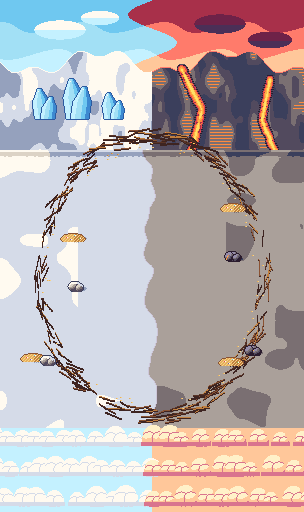
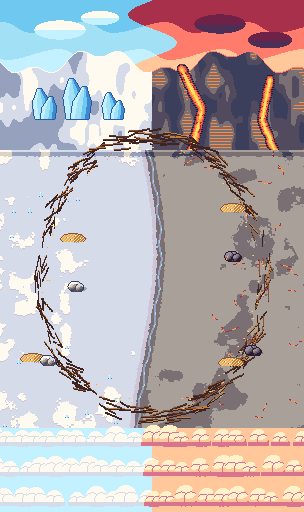
[C] v2.7 polish: avalanche pass packed snow with tracks, muted ice cave floor, deliberate snow-to-fire dragon nest, sunset Avalon hill with stone circle and blossom
Claude-Session: https://claude.ai/code/session_011zCFYQCUMyXvVY6m2szGHz

diff --git a/tools/pixel/art_v27_snow.py b/tools/pixel/art_v27_snow.py
@@ -239,28 +239,49 @@ def scene_ice_cave() -> Scene26:
     for (x, y) in ((40, 120), (250, 100), (96, 136), (214, 130)):
         K7.glow_crack(img, x, y, 10, x + y)
         sc.light("lantern", x + 2, y + 2, 0.45, tint=(1.0, 0.6, 0.3))
-    # floor: cracked ice plates, frost drifts round the edge
-    K7.voronoi_stones(img, (0, 150, IMG_W, IMG_H), 27, ("azure", "azure"), "sky_l", 5204, squash=0.75)
+    # floor: thick old ice in a cool mid grey-blue (not bright: actors and red telegraphs read first), broken
+    # frost-white cracks, pale reflections, hoar-frost creeping in from the walls, darker plates towards the
+    # walls for depth; the middle stays calm
+    K7.voronoi_stones(img, (0, 150, IMG_W, IMG_H), 26, ("steel", "steel"), "steel_l", 5204, squash=0.75)
+    for y in range(150, IMG_H):
+        for x in range(IMG_W):
+            if name_at(img, x, y) == "steel_l" and fbm(x, y, 5208, 9, 2) < 0.6 + W.calm_k(x, y, 60) * 0.1:
+                img.set(x, y, "steel")
+            d = max(AX0 - 4 - x, x - (AX1 + 3), 0)
+            if d > 0 and name_at(img, x, y) == "steel" and d + 5 * AW._cluster(x, y, 5209) > 8:
+                img.set(x, y, "steel_d")
+    # two soft diagonal sheens where the light from the waterfall slides over polished ice
+    for y in range(156, IMG_H):
+        for x in range(IMG_W):
+            if name_at(img, x, y) != "steel":
+                continue
+            u = (x + y * 0.8) % 150
+            band = min(abs(u - 30), abs(u - 52) + 4)
+            if band + (fbm(x, y, 5210, 10, 2) - 0.5) * 10 + AW._cluster(x, y, 5210) * 2 < 4:
+                img.set(x, y, "steel_l")
     for (x, y) in ((AX0 + 8, AY0 + 70), (AX1 - 14, AY0 + 150), (AX0 + 14, AY1 - 30), (AX1 - 20, AY0 + 20)):
         K7.glow_crack(img, x, y, 9, x * 7 + y)
         sc.light("lantern", x + 2, y + 1, 0.4, tint=(1.0, 0.6, 0.3))
     rng = random.Random(5205)
-    for _ in range(46):
+    for _ in range(60):
         x, y = rng.randrange(0, IMG_W - 12), rng.randrange(156, IMG_H)
-        if rng.random() < W.calm_k(x, y) * 0.9:
+        if rng.random() < W.calm_k(x, y, 40) * 0.95:
             continue
-        ln = rng.randrange(4, 10)
+        ln = rng.randrange(4, 9)
         for k in range(ln):
-            if name_at(img, x + k, y - k // 2) == "azure":
-                img.set(x + k, y - k // 2, "sky_l" if k < ln - 2 else "white")
+            if name_at(img, x + k, y - k // 2) in ("steel", "steel_d"):
+                img.set(x + k, y - k // 2, "steel_l" if k < ln - 1 else "azure")
     for y in range(150, IMG_H):
         for x in range(IMG_W):
-            k2 = W.calm_k(x, y, 34)
-            n = fbm(x, y, 5206, 18, 3) + AW._cluster(x, y, 5206) * 0.06
-            if n > 0.58 + k2 * 0.35:
-                img.set(x, y, "white" if n > 0.66 + k2 * 0.35 else "steel_l")
-    K.edge_shadow(img, 150, 6, 0, IMG_W)
-    K.calm_vignette(img, 10)
+            k2 = W.calm_k(x, y, 40)
+            n = fbm(x * 0.8, y, 5206, 16, 3) + AW._cluster(x, y, 5206) * 0.06
+            if n > 0.6 + k2 * 0.4:
+                img.set(x, y, "white" if n > 0.68 + k2 * 0.4 else "steel_l")
+    for x in range(IMG_W):
+        h = 3 + int(3 * fbm(x, 0, 5207, 6, 2) + 2 * AW._cluster(x, 150, 5207))
+        for y in range(150, 150 + h):
+            img.set(x, y, "white" if y < 150 + h - 1 else "steel_l")
+    K.edge_shadow(img, 156, 6, 0, IMG_W)
     # ice crystals and blocks round the edges, a frozen chest, a stuck snowball pile
     for (x, y, h) in ((AX0 - 30, AY0 + 30, 26), (AX1 + 4, AY0 + 10, 30), (AX0 - 26, AY1 - 50, 22), (AX1 + 6, AY1 - 40, 28),
                       (AX0 + 2, AY0 - 6, 14), (AX1 - 16, AY1 - 8, 16)):
@@ -299,7 +320,7 @@ def scene_ice_cave() -> Scene26:
                 spread=180, speed=(1, 3), gravity=(0, 0), blink=True)
     sc.particle(kind="snow", amount=10, lifetime=6.0, rect=(-10, -40, 200, 380), velocity=(0.2, 1), spread=40,
                 speed=(2, 5), gravity=(0, 0), colour_fade=True)
-    sc.modulate = (0.88, 0.93, 1.0)
+    sc.modulate = (0.92, 0.95, 1.0)
     return sc
 
 
@@ -438,17 +459,17 @@ def scene_avalanche_pass() -> Scene26:
     K.peaks_layer(img, 80, [(MIDX - 30, 40, 40), (MIDX + 26, 34, 36)], "steel_l", "fog", rim="white", seed=5402)
     # cliffs converging on the pass: heaps of dark boulders with snow on their tops, narrowing upwards
     def cliff_l(y: float) -> float:
-        return 70 + max(0.0, 170 - y) * 0.42 + 3 * math.sin(y / 9.0)
+        return 70 + max(0.0, 170 - y) * 0.42 - max(0.0, y - 262) * 0.9 + 3 * math.sin(y / 9.0)
 
     def cliff_r(y: float) -> float:
-        return 234 - max(0.0, 170 - y) * 0.42 + 3 * math.sin(y / 11.0 + 2)
+        return 234 - max(0.0, 170 - y) * 0.42 + max(0.0, y - 268) * 0.9 + 3 * math.sin(y / 11.0 + 2)
 
-    for y in range(40, 300):
+    for y in range(40, 370):
         for x in range(IMG_W):
             if x < cliff_l(y) or x > cliff_r(y):
                 img.set(x, y, "iron" if (x < cliff_l(y) - 10 or x > cliff_r(y) + 10) else "slate")
     rng0 = random.Random(5403)
-    for y in range(40, 300, 9):
+    for y in range(40, 370, 9):
         for side in (0, 1):
             edge = cliff_l(y) if side == 0 else cliff_r(y)
             x = edge - rng0.randrange(14, 24) if side == 0 else edge - rng0.randrange(0, 8)
@@ -481,21 +502,57 @@ def scene_avalanche_pass() -> Scene26:
             img.set(x, y, "white" if y < bottom - 5 else ("steel_l" if y < bottom - 2 else "steel"))
         img.set(x, int(top), "steel_l")
     K7.icicles(img, 50, 260, 96, 5404, ("steel_l", "white", "white"), 7)
-    # the path: packed snow, wind-swept, calm in the middle
-    snow_ground(img, (0, 96, IMG_W, IMG_H), 5405, ("ash", "fog", "steel_l"),
-                mask=lambda x, y: y >= 300 or cliff_l(y) <= x <= cliff_r(y))
-    for x in range(IMG_W):
-        for y in range(96, 150):
-            if cliff_l(y) <= x <= cliff_r(y) and name_at(img, x, y) == "fog" and fbm(x, y, 5407, 14, 2) > 0.38 + (y - 96) / 140:
-                img.set(x, y, "steel_l")
-    rng = random.Random(5406)
-    for _ in range(80):
-        x, y = rng.randrange(0, IMG_W - 14), rng.randrange(150, IMG_H)
-        if rng.random() < W.calm_k(x, y) * 0.95 or name_at(img, x, y) not in ("fog", "steel_l"):
+    # the path: packed snow (one cool tone), a blue shade along the cliff feet, wind drifts with a lit crest and
+    # a soft shadow under them near the edges, sledge runners and paw prints; the middle stays calm
+    def on_path(x: int, y: int) -> bool:
+        return y >= 370 or cliff_l(y) <= x <= cliff_r(y)
+
+    for y in range(96, IMG_H):
+        for x in range(IMG_W):
+            if not on_path(x, y):
+                continue
+            col = "steel_l"
+            edge = min(x - cliff_l(y), cliff_r(y) - x) if y < 370 else 99
+            if edge < 7 + 3 * AW._cluster(x, y, 5405):
+                col = "fog" if edge > 3 else "steel"
+            img.set(x, y, col)
+    for y in range(96, IMG_H):
+        for x in range(IMG_W):
+            if name_at(img, x, y) != "steel_l":
+                continue
+            k = W.calm_k(x, y, 46)
+            n = fbm(x * 0.7, y * 1.6, 5406, 22, 3) + AW._cluster(x, y, 5406) * 0.05
+            if n > 0.6 + k * 0.4:
+                img.set(x, y, "white")
+    for y in range(IMG_H - 1, 96, -1):
+        for x in range(IMG_W):
+            if name_at(img, x, y) == "white" and name_at(img, x, y + 1) == "steel_l" and name_at(img, x, y + 2) == "steel_l":
+                img.set(x, y + 1, "fog")
+    rng = random.Random(5407)
+    for _ in range(90):
+        x, y = rng.randrange(0, IMG_W - 8), rng.randrange(110, IMG_H)
+        if rng.random() < W.calm_k(x, y, 40) * 0.97 or name_at(img, x, y) != "steel_l":
             continue
-        for k in range(rng.randrange(6, 14)):
-            if name_at(img, x + k, y) in ("fog", "steel_l"):
-                img.set(x + k, y, "steel_l" if name_at(img, x + k, y) == "fog" else "white")
+        ln = rng.randrange(3, 7)
+        for k in range(ln):
+            if name_at(img, x + k, y) == "steel_l":
+                img.set(x + k, y, "white")
+            if name_at(img, x + k, y + 1) == "steel_l" and 0 < k < ln - 1:
+                img.set(x + k, y + 1, "fog")
+    # a sledge's two runners curving down the pass, broken where the wind has filled them in
+    for y in range(104, IMG_H):
+        cx = 104 + 9 * math.sin(y / 46.0) + y * 0.02
+        for dx in (0, 6):
+            x = int(cx + dx)
+            if on_path(x, y) and (y // 5) % 7 != 3 and name_at(img, x, y) in ("steel_l", "white"):
+                img.set(x, y, "fog")
+    # paw prints wandering beside the runners (somebody walked the sledge up)
+    for k in range(34):
+        y = 112 + k * 9
+        x = int(206 - 10 * math.sin(y / 40.0)) + (3 if k % 2 else -3)
+        for (dx, dy) in ((0, 0), (1, 0), (0, 1), (1, 1), (-1, -1), (2, -1)):
+            if name_at(img, x + dx, y + dy) in ("steel_l", "white"):
+                img.set(x + dx, y + dy, "fog")
     # boulders from the last avalanche, snow piles against the cliffs
     for (x, y, w, h) in ((AX0 - 26, AY0 + 30, 26, 16), (AX1 + 2, AY0 + 80, 24, 14), (AX0 - 20, AY1 - 50, 22, 14),
                          (AX1 - 2, AY1 - 20, 26, 15), (AX0 + 2, AY0 + 2, 16, 10), (AX1 - 20, AY0 - 2, 14, 9)):
@@ -681,26 +738,59 @@ def scene_dragon_nest() -> Scene26:
     K7.lava_river(img, [(MIDX + 30, 70), (MIDX + 50, 110), (MIDX + 40, 150)], 8, 5604)
     K7.lava_river(img, [(270, 80), (262, 120), (275, 152)], 7, 5605)
     sc.anim("lava_flow", MIDX + 34, 110, 0, 1.0)
-    # the nest: summit rock floor (snowy left, warm rock right) inside a ring of huge twigs
-    def side_mix(x: int, y: int) -> float:
-        return (x - MIDX) / 18.0 + (fbm(x, y, 5606, 30, 2) - 0.5) * 2.4
+    # the nest: the summit floor turns from the white dragon's snow (left) through slush and wet, steaming rock
+    # with a meltwater rivulet (a gentle S down the middle) into the red dragon's warm stone, lit by embers
+    # (right); both halves stay calm, the detail lives at the edges
+    def seam(y: float) -> float:
+        return MIDX + 12 * math.sin((y - 150) / 64.0) - 4
 
     for y in range(150, IMG_H):
+        sx = seam(y)
         for x in range(IMG_W):
-            s = side_mix(x, y)
-            if s < 0:
+            d = x + 0.5 - sx + AW._cluster(x, y, 5606) * 1.2
+            if d < -7:
                 col = "steel_l"
-                if fbm(x, y, 5607, 40, 2) > 0.62 and W.calm_k(x, y) < 0.6:
-                    col = "white"
+            elif d < -3:
+                col = "fog"
+            elif d < 5:
+                col = "stone_d"
             else:
                 col = "stone"
-                if fbm(x, y, 5608, 40, 2) > 0.62 and W.calm_k(x, y) < 0.6:
-                    col = "stone_d"
             img.set(x, y, col)
+        for k in (-1, 0):
+            xx = int(sx + 1 + 1.2 * math.sin(y / 5.0)) + k
+            img.set(xx, y, "steel" if k else ("azure" if (y // 3) % 4 == 0 else "steel"))
     for y in range(150, IMG_H):
         for x in range(IMG_W):
-            if side_mix(x, y) < 0 <= side_mix(x + 1, y):
-                img.set(x, y, "fog")
+            k = W.calm_k(x, y, 44)
+            n = fbm(x, y, 5607, 22, 3) + AW._cluster(x, y, 5607) * 0.06
+            here = name_at(img, x, y)
+            if here == "steel_l" and n > 0.6 + k * 0.4:
+                img.set(x, y, "white")
+            elif here == "stone" and n > 0.6 + k * 0.4:
+                img.set(x, y, "stone_d")
+    for y in range(IMG_H - 1, 150, -1):
+        for x in range(IMG_W):
+            if name_at(img, x, y) == "white" and name_at(img, x, y + 1) == "steel_l":
+                img.set(x, y + 1, "fog")
+    rng = random.Random(5611)
+    for k in range(40):
+        x, y = rng.randrange(MIDX + 40, IMG_W), rng.randrange(156, IMG_H)
+        if W.calm_k(x, y, 40) > 0.55:
+            continue
+        K7.glow_crack(img, x, y, rng.randrange(8, 16), 5612 + k)
+    for k in range(26):
+        x, y = rng.randrange(0, MIDX - 30), rng.randrange(156, IMG_H)
+        if W.calm_k(x, y, 40) > 0.35:
+            continue
+        W.shard(img, x, y, ("water", "azure", "sky_l"), 3 + k % 3)
+    for (y, f) in ((AY0 - 12, 0), (AY1 - 26, 3)):
+        sc.anim("steam", int(seam(y + 20)) - 6, y, f, 0.6)
+    for (y, f) in ((AY0 + 40, 0), (AY0 + 130, 2), (AY1 - 40, 4)):
+        sc.anim("water_glint", int(seam(y)) - 2, y, f, 0.7)
+    for y in (AY0 + 30, AY0 + 120, AY1 - 30):
+        sc.light("torch", AX1 + 4, y, 0.55)
+        sc.light("magic", AX0 - 4, y, 0.4, tint=(0.5, 0.9, 1.0))
     # nest ring: woven branches round an ellipse
     ccx, ccy, rx, ry = MIDX, MIDY + 4, 106, 132
     rng = random.Random(5609)

diff --git a/tools/pixel/art_v27_dusk.py b/tools/pixel/art_v27_dusk.py
@@ -608,23 +608,43 @@ def scene_avalon_hill() -> Scene26:
             continue
         for y in range(y0, y0 + 4):
             img.set(x, y, "peach" if y == y0 else ("stone_l" if y < y0 + 3 else "stone"))
-    # the hilltop: warm green grass, calm; a ring of white flowers round it
-    W.textured_floor(img, (0, 148, IMG_W, IMG_H), ("leaf_d", "leaf", "spring"), 6605, scale=46,
+    # the hilltop: sunset-warm grass (golden green, warm-lit patches, golden light spilling down from the lake
+    # side), a faint circle of flat old stones, fallen apple blossom drifting in from the edges; calm centre
+    W.textured_floor(img, (0, 148, IMG_W, IMG_H), ("leaf", "spring", "leaf_l"), 6605, scale=48,
                      mask=lambda x, y: y > shore(x) + 3 and not (abs(x - MIDX) < 10 and y < 158))
+    for y in range(150, 246):
+        for x in range(IMG_W):
+            if name_at(img, x, y) != "spring":
+                continue
+            v = (y - 150) / 96 + (fbm(x, y, 6608, 20, 2) - 0.5) * 0.5 + AW._cluster(x, y, 6608) * 0.06
+            if v < 0.34:
+                img.set(x, y, "leaf_l")
     W.blades(img, (0, 150, IMG_W, IMG_H), 6606, 0.045, mask=lambda x, y: y > shore(x) + 4)
+    K.edge_shadow(img, 152, 3, 0, IMG_W)
+    for k in range(38):
+        a = k / 38 * 2 * math.pi
+        cx, cy = MIDX + math.cos(a) * 86, MIDY + 6 + math.sin(a) * 110
+        st = Canvas(8, 5)
+        for (px, py) in P.ellipse(4, 2.3, 3.6, 2.0):
+            st.set(px, py, "stone_l" if py < 2 else ("stone" if px < 5 else "stone_d"))
+        st.set(2, 1, "white")
+        AW.place(img, st, int(cx) - 4, int(cy) - 2, shadow=(0.9, -1), shadow_dx=1)
+
+    def petal(r: random.Random) -> Canvas:
+        c = Canvas(3, 2)
+        col = r.choice(("pink", "pink", "white", "peach"))
+        c.set(0, 0, col)
+        c.set(1, 0, "white" if col != "white" else "pink")
+        c.set(1, 1, col)
+        if r.random() < 0.5:
+            c.set(2, 1, col)
+        return c
+    K7.scatter_props(img, (0, 156, IMG_W, IMG_H), 700, 6607, petal, calm=0.95)
     for (cx, cy) in ((AX0 + 10, AY0 + 30), (AX1 - 12, AY0 + 30), (AX0 + 10, AY1 - 6), (AX1 - 12, AY1 - 6),
                      (AX0 - 20, MIDY), (AX1 + 16, MIDY)):
-        AW.sprinkle_flowers(img, (cx - 10, cy - 6, cx + 10, cy + 6), 9, cx * 3 + cy, ["white", "pink", "white"])
-    K7.leaf_litter(img, (0, 156, IMG_W, IMG_H), 220, 6607, cols=("pink", "white", "peach", "pink"), calm=0.98)
-    K.edge_shadow(img, 152, 3, 0, IMG_W)
-    # the hilltop's faint old circle, and drifts of fallen blossom near its rim
-    W.rune_ring(img, MIDX, MIDY + 6, 84, "spring", "leaf_l", ticks=16, width=1.0)
-    for k in range(10):
-        a = k / 10 * 2 * math.pi + 0.3
-        cx, cy = MIDX + math.cos(a) * 96, MIDY + 6 + math.sin(a) * 124
-        K7.soft_disc(img, cx, cy, 9, 4, "spring", seed=6650 + k, only=("leaf",))
-        AW.sprinkle_flowers(img, (int(cx) - 8, int(cy) - 4, int(cx) + 8, int(cy) + 4), 3, 6660 + k,
-                            ["white", "pink"])
+        K7.soft_disc(img, cx, cy, 11, 5, "leaf_l", seed=cx + cy, only=("leaf", "spring"))
+        K7.scatter_props(img, (cx - 12, cy - 6, cx + 12, cy + 6), 14, cx * 3 + cy, petal, calm=0.0)
+        AW.sprinkle_flowers(img, (cx - 10, cy - 6, cx + 10, cy + 6), 5, cx * 5 + cy, ["white", "pink", "white"])
     # old standing stones at four points of the ring
     for (x, y, h) in ((AX0 + 2, AY0 + 6, 18), (AX1 - 14, AY0 + 6, 20), (AX0 + 2, AY1 - 28, 18), (AX1 - 14, AY1 - 28, 20)):
         AW.place(img, K.menhir(h, x, ("stone_d", "stone", "stone_l"), "iron", rune="gold_l"), x, y,
@@ -637,7 +657,8 @@ def scene_avalon_hill() -> Scene26:
             k = (yy - (y + t.h - 6)) / 76
             half = t.w * 0.32 * (1 - k * 0.5)
             for xx in range(int(cx - half + k * 10), int(cx + half + k * 10)):
-                if AW._cluster(xx, yy, 6640) * 0.8 + k < 0.95 and name_at(img, xx, yy) in ("leaf", "spring", "leaf_l"):
+                if AW._cluster(xx, yy, 6640) * 0.8 + k < 0.95 and name_at(img, xx, yy) in ("leaf", "spring", "leaf_l",
+                                                                                         "moss"):
                     AW.shade(img, xx, yy, -1)
         AW.place(img, t, x, y, shadow=(1.0, -2), shadow_dx=6)
     for (x, y) in ((AX0 - 34, 214), (AX1 - 4, 250)):
@@ -666,13 +687,15 @@ def scene_avalon_hill() -> Scene26:
                                    (AX0 - 6, AY1 - 50, "flower_pink"), (AX1 + 4, AY1 - 20, "flower_white"))):
         sc.anim(k, x, y, i % 4, 0.9)
     sc.light("sun", MIDX, hz - 4, 1.5, tint=(1.0, 0.75, 0.5))
+    for (x, y) in ((AX0 + 20, AY0 + 40), (AX1 - 20, AY0 + 60)):
+        sc.light("sun", x, y, 0.8, tint=(1.0, 0.7, 0.45))
     sc.particle(kind="blossom", amount=20, lifetime=6.0, rect=(-20, -60, 220, 300), velocity=(1, 0.5), spread=25,
                 speed=(8, 14), gravity=(0, 2), colour_fade=True, spin=True)
     sc.particle(kind="petal", amount=8, lifetime=6.0, rect=(-20, -60, 220, 300), velocity=(1, 0.4), spread=25,
                 speed=(10, 16), gravity=(0, 2), colour_fade=True, spin=True)
     sc.particle(glow=True, kind="spark_gold", amount=8, lifetime=4.0, rect=(-10, -40, 200, 380), velocity=(0, -1),
                 spread=180, speed=(1, 3), gravity=(0, 0), blink=True)
-    sc.modulate = (1.0, 0.95, 0.9)
+    sc.modulate = (1.0, 0.9, 0.8)
     return sc
 
 

diff --git a/docs/status/LINE_C.md b/docs/status/LINE_C.md
@@ -58,6 +58,18 @@
 - 只重畫 C 世界 v2.7 的檔案(不會動到角色圖):`python3 tools/pixel/art_v27_world.py [名字...]`、
   `python3 tools/pixel/art_v27_title.py`、`python3 tools/pixel/music_v27.py`,再 `godot --headless --path . --import`。
 
+### 地面再修一輪(整合工作階段要求)
+
+- 雪崩山道:壓實的雪路(一個冷色)、山壁腳下的藍色陰影、邊緣的風吹雪堆(亮的雪脊、下面淡淡的影子)、
+  雪橇的兩條痕跡與狗腳印;中間安靜。岩壁往下慢慢退開,不再在中途切齊。
+- 冰之洞窟:地面改成較暗、較灰的冰藍(不再亮青色),斷斷續續的白色裂紋、兩道斜斜的冰面反光、
+  牆邊的白霜與較暗的冰板做出深度;火蜥蜴的橘色裂縫保留。
+- 雙龍之巢:左邊白龍的雪地經過一條雪泥、濕岩石與蜿蜒的融雪小溪(會閃光、兩端冒蒸氣),
+  過渡到右邊紅龍的暖色石地(邊緣有焦痕與發光的裂縫、暖色光暈);中間的 S 形分界是刻意畫的。
+- 阿瓦隆之丘:夕陽色調的草地(金綠色、湖那一側灑下的金色光)、一圈扁平的古老石頭、
+  從邊緣散進來的蘋果花瓣(地上的花瓣與飄落的花瓣)、樹影;氣氛色更暖。
+- 截圖:`tests/line_c/shots_v27_world/polish_four_floors.png`。
+
 ### 給整合工作階段
 
 - `tools/pixel/build_all.py` 只加了三個 import 與三行呼叫(`art_v27_world`、`art_v27_title` 在 `art_v26_story`
@@ -68,8 +80,6 @@
 
 - 一般 180×320 的手機只看得到戰鬥區上方約 70 像素,所以每張的「遠景」(天空、遠山)主要在長手機上看得到;
   我把每章最重要的東西(海盜船、燈塔、雙龍山、影子大軍、夕陽)放在一般手機也看得到的範圍。
-- 冰之洞窟的地面是亮的冰藍色(配合「地板滑溜溜」),如果擁有人覺得太亮,可以把地面改成較灰的藍。
-- 雪崩山道兩邊的岩壁是一排排積雪的大石頭,之後可以再加大小變化。
 
 ## C 世界 v2.6(DEV_PLAN 第 19 節 CW1 至 CW6)
 
